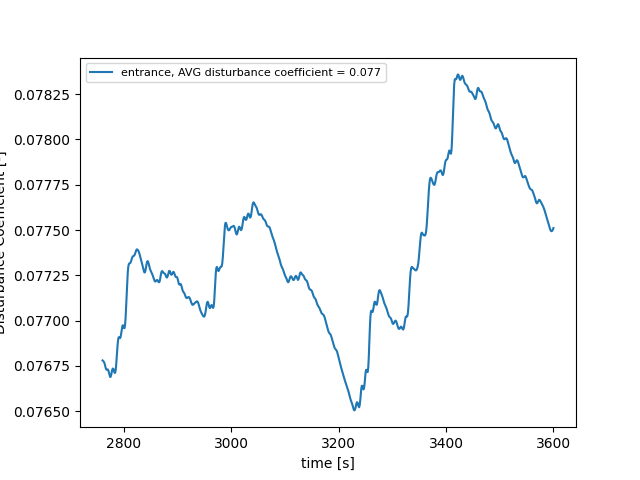
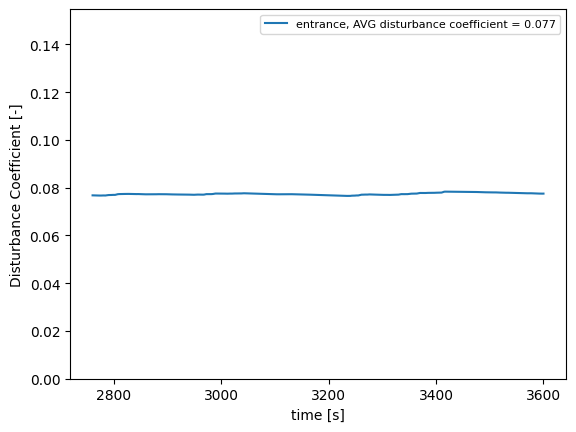
added figure expansion because i could not see label text

diff --git a/Wave calculations/entrance disturbance/after/after 290.py b/Wave calculations/entrance disturbance/after/after 290.py
@@ -19,7 +19,7 @@ for loc in locations:
 plt.legend(prop={'size': 8})
 plt.xlabel('time [s]')
 plt.ylabel('Disturbance Coefficient [-]')
-plt.savefig(f'raw dist coeff.png')
+plt.savefig(f'raw dist coeff.png',bbox_inches='tight')
 
 
 
@@ -37,7 +37,8 @@ plt.figure()
 for loc in locations:
     plt.plot(t[idx:len(t)],stable[loc],label=f'{loc}, AVG disturbance coefficient = {np.round(dist_coeff[loc],3)}')
 plt.legend(prop={'size': 8})
+plt.ylim([0,2*dist_coeff[locations[0]]])
 plt.xlabel('time [s]')
 plt.ylabel('Disturbance Coefficient [-]')
-plt.savefig(f'stable dist coeff.png')
+plt.savefig(f'stable dist coeff.png',bbox_inches='tight')
 
